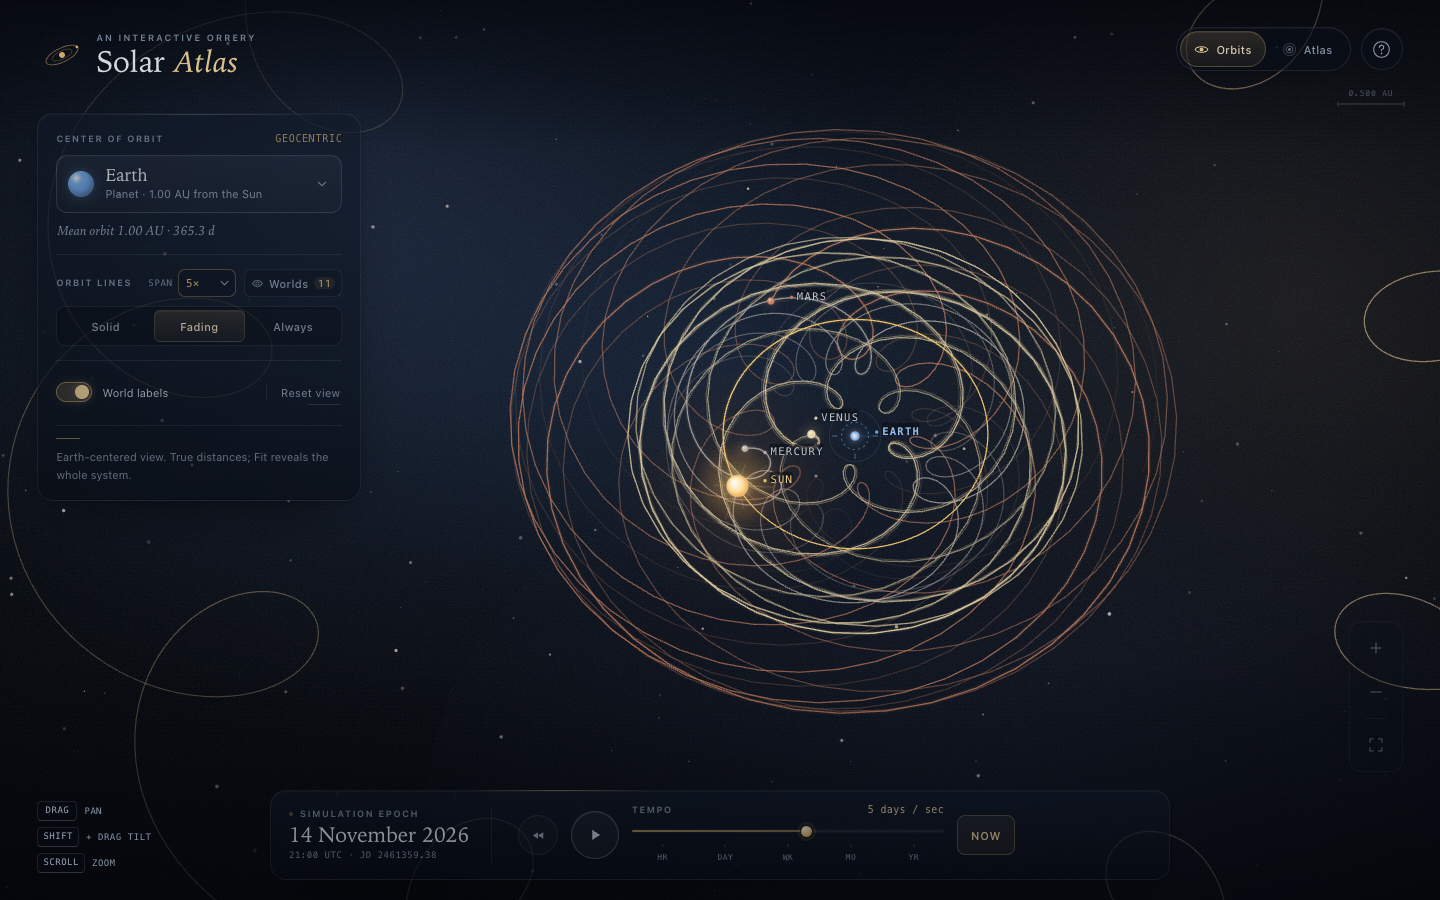
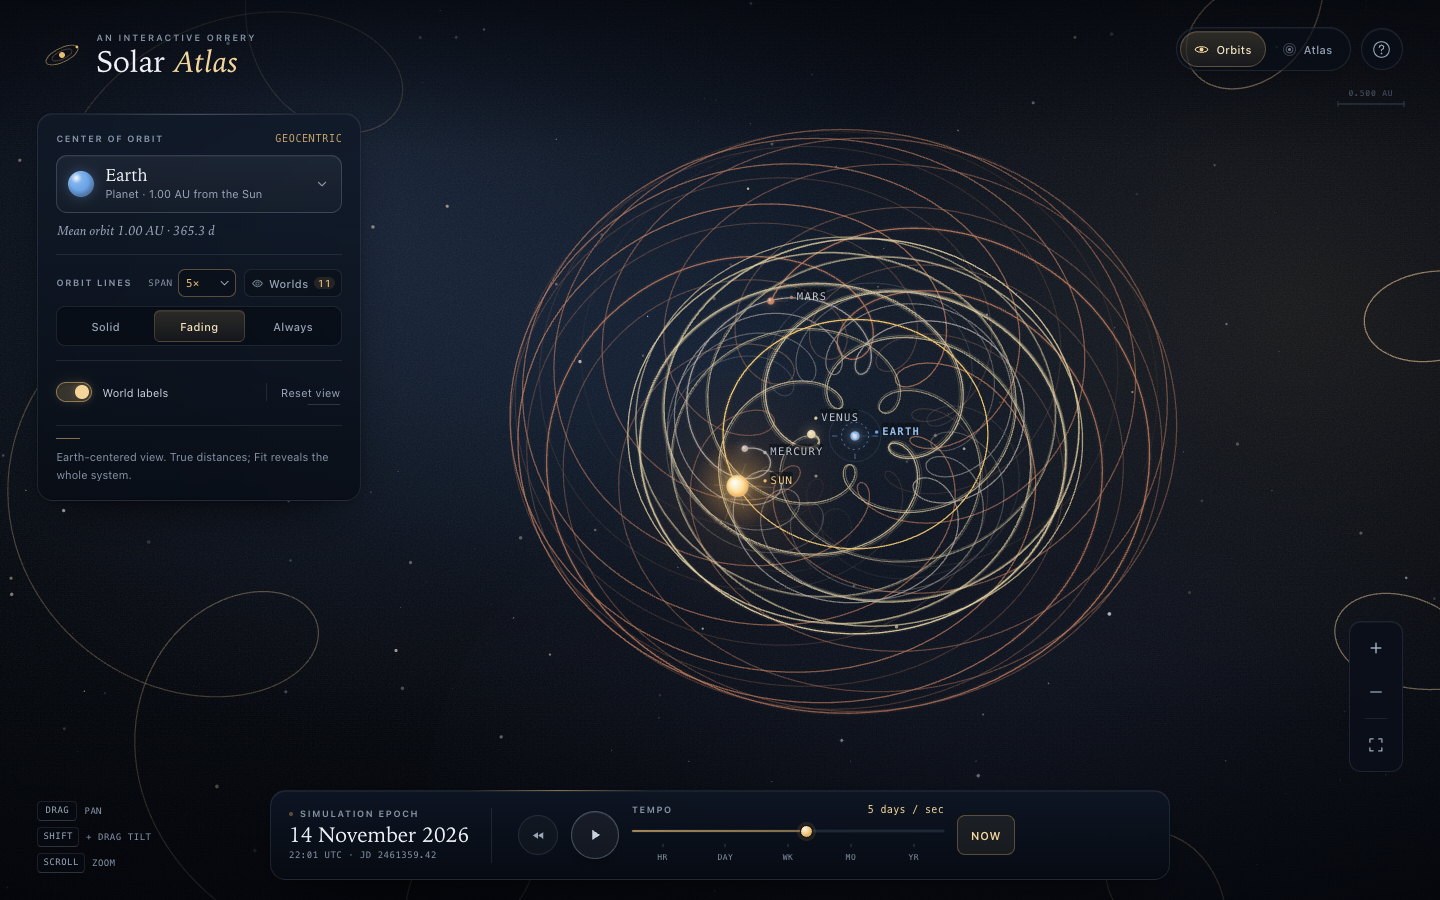
Smooth long-history orbit rendering

diff --git a/dist/solar-atlas.html b/dist/solar-atlas.html
@@ -7391,6 +7391,39 @@ function createRenderer(canvas) {
     return points;
   }
 
+  /**
+   * Add a smooth Catmull-Rom path through projected trace points.
+   *
+   * Line segments between ephemeris samples are geometrically correct but read
+   * as a visible polygon when a long history packs several loops into a short
+   * arc. This curve still passes through every sample; only the rendered
+   * interpolation between samples is smoothed.
+   */
+  function addTracePath(ctx, points, start = 0, end = points.length - 1, close = false) {
+    ctx.beginPath();
+    if (!Array.isArray(points) || end <= start) return;
+    const first = points[start];
+    ctx.moveTo(first.x, first.y);
+    if (end - start === 1) {
+      const last = points[end];
+      ctx.lineTo(last.x, last.y);
+      return;
+    }
+
+    for (let i = start; i < end; i += 1) {
+      const p0 = points[i > start ? i - 1 : start];
+      const p1 = points[i];
+      const p2 = points[i + 1];
+      const p3 = points[i + 2 <= end ? i + 2 : end];
+      const c1x = p1.x + (p2.x - p0.x) / 6;
+      const c1y = p1.y + (p2.y - p0.y) / 6;
+      const c2x = p2.x - (p3.x - p1.x) / 6;
+      const c2y = p2.y - (p3.y - p1.y) / 6;
+      ctx.bezierCurveTo(c1x, c1y, c2x, c2y, p2.x, p2.y);
+    }
+    if (close) ctx.closePath();
+  }
+
   function drawTrace(ctx, body, points, trace, style, hovered, isLoop = false) {
     let minX = Infinity;
     let minY = Infinity;
@@ -7422,9 +7455,7 @@ function createRenderer(canvas) {
     if (style === 'solid') {
       ctx.globalAlpha = hovered ? 0.7 : 0.4;
       ctx.lineWidth = hovered ? 1.7 : 1.1;
-      ctx.beginPath();
-      ctx.moveTo(points[0].x, points[0].y);
-      for (let i = 1; i < n; i += 1) ctx.lineTo(points[i].x, points[i].y);
+      addTracePath(ctx, points);
       ctx.stroke();
 
       if (hovered) {
@@ -7436,10 +7467,7 @@ function createRenderer(canvas) {
       // Unbroken, high-contrast paths with a soft halo. Unlike Solid, these
       // are deliberately bright enough to read against the star field even
       // when several orbits cross; unlike Fading, every segment stays visible.
-      ctx.beginPath();
-      ctx.moveTo(points[0].x, points[0].y);
-      for (let i = 1; i < n; i += 1) ctx.lineTo(points[i].x, points[i].y);
-      if (trace?.fullOrbit) ctx.closePath();
+      addTracePath(ctx, points, 0, n - 1, Boolean(trace?.fullOrbit));
 
       ctx.strokeStyle = body.glow || color;
       ctx.globalAlpha = hovered ? 0.26 : 0.14;
@@ -7463,9 +7491,7 @@ function createRenderer(canvas) {
       // the oldest end and would otherwise make older positions disappear.
       ctx.globalAlpha = isLoop ? 0.055 : 0.045;
       ctx.lineWidth = 0.85;
-      ctx.beginPath();
-      ctx.moveTo(points[0].x, points[0].y);
-      for (let i = 1; i < n; i += 1) ctx.lineTo(points[i].x, points[i].y);
+      addTracePath(ctx, points);
       ctx.stroke();
 
       const buckets = Math.min(34, Math.max(14, Math.floor(n / 9)));
@@ -7474,9 +7500,7 @@ function createRenderer(canvas) {
         const end = Math.min(n - 1, Math.max(start + 1, Math.floor(((b + 1) * (n - 1)) / buckets)));
         if (end <= start) continue;
 
-        ctx.beginPath();
-        ctx.moveTo(points[start].x, points[start].y);
-        for (let i = start + 1; i <= end; i += 1) ctx.lineTo(points[i].x, points[i].y);
+        addTracePath(ctx, points, start, end);
 
         const t = end / Math.max(1, n - 1);
         const supplied = trace && Array.isArray(trace.alphas)
@@ -7495,9 +7519,7 @@ function createRenderer(canvas) {
 
       // A faint bloom on the last stretch of the comet tail.
       const bloomStart = Math.max(0, Math.floor(n * 0.9));
-      ctx.beginPath();
-      ctx.moveTo(points[bloomStart].x, points[bloomStart].y);
-      for (let i = bloomStart + 1; i < n; i += 1) ctx.lineTo(points[i].x, points[i].y);
+      addTracePath(ctx, points, bloomStart, n - 1);
       ctx.globalAlpha = hovered ? 0.12 : 0.065;
       ctx.lineWidth = hovered ? 7 : 4.5;
       ctx.stroke();
@@ -8610,7 +8632,7 @@ const ATLAS_YAW = 0;
 const ATLAS_ELEVATION = 90 * DEG;
 const TRACE_SAMPLES = 520;
 const COMPLETE_TRACE_SAMPLES = 560;
-const MAX_TRACE_SAMPLES = 900;
+const MAX_TRACE_SAMPLES = 2400;
 const TRAIL_SPAN_OPTIONS = [0.5, 1, 2, 5, 10];
 const TRACE_REBUILD_MS = 150;
 const MAX_SCALE = 180000;
@@ -9139,7 +9161,7 @@ function rebuildTraces(now = performance.now(), force = false) {
       ? COMPLETE_TRACE_SAMPLES
       : Math.min(
         MAX_TRACE_SAMPLES,
-        Math.round(TRACE_SAMPLES * Math.sqrt(Math.max(1, state.trailSpan))),
+        Math.max(TRACE_SAMPLES, Math.round(220 * Math.max(1, state.trailSpan))),
       );
     traces = build({
       jd: state.jd,
@@ -9170,7 +9192,8 @@ function maybeRebuildTraces(now) {
     return;
   }
   if (!state.playing) return;
-  if (now - tracesBuiltAt < TRACE_REBUILD_MS) return;
+  const rebuildInterval = state.trailSpan >= 5 ? 250 : TRACE_REBUILD_MS;
+  if (now - tracesBuiltAt < rebuildInterval) return;
   if (Math.abs(state.jd - tracesJd) < 1e-7) return;
   rebuildTraces(now, true);
 }

diff --git a/src/js/renderer.js b/src/js/renderer.js
@@ -767,6 +767,39 @@ export function createRenderer(canvas) {
     return points;
   }
 
+  /**
+   * Add a smooth Catmull-Rom path through projected trace points.
+   *
+   * Line segments between ephemeris samples are geometrically correct but read
+   * as a visible polygon when a long history packs several loops into a short
+   * arc. This curve still passes through every sample; only the rendered
+   * interpolation between samples is smoothed.
+   */
+  function addTracePath(ctx, points, start = 0, end = points.length - 1, close = false) {
+    ctx.beginPath();
+    if (!Array.isArray(points) || end <= start) return;
+    const first = points[start];
+    ctx.moveTo(first.x, first.y);
+    if (end - start === 1) {
+      const last = points[end];
+      ctx.lineTo(last.x, last.y);
+      return;
+    }
+
+    for (let i = start; i < end; i += 1) {
+      const p0 = points[i > start ? i - 1 : start];
+      const p1 = points[i];
+      const p2 = points[i + 1];
+      const p3 = points[i + 2 <= end ? i + 2 : end];
+      const c1x = p1.x + (p2.x - p0.x) / 6;
+      const c1y = p1.y + (p2.y - p0.y) / 6;
+      const c2x = p2.x - (p3.x - p1.x) / 6;
+      const c2y = p2.y - (p3.y - p1.y) / 6;
+      ctx.bezierCurveTo(c1x, c1y, c2x, c2y, p2.x, p2.y);
+    }
+    if (close) ctx.closePath();
+  }
+
   function drawTrace(ctx, body, points, trace, style, hovered, isLoop = false) {
     let minX = Infinity;
     let minY = Infinity;
@@ -798,9 +831,7 @@ export function createRenderer(canvas) {
     if (style === 'solid') {
       ctx.globalAlpha = hovered ? 0.7 : 0.4;
       ctx.lineWidth = hovered ? 1.7 : 1.1;
-      ctx.beginPath();
-      ctx.moveTo(points[0].x, points[0].y);
-      for (let i = 1; i < n; i += 1) ctx.lineTo(points[i].x, points[i].y);
+      addTracePath(ctx, points);
       ctx.stroke();
 
       if (hovered) {
@@ -812,10 +843,7 @@ export function createRenderer(canvas) {
       // Unbroken, high-contrast paths with a soft halo. Unlike Solid, these
       // are deliberately bright enough to read against the star field even
       // when several orbits cross; unlike Fading, every segment stays visible.
-      ctx.beginPath();
-      ctx.moveTo(points[0].x, points[0].y);
-      for (let i = 1; i < n; i += 1) ctx.lineTo(points[i].x, points[i].y);
-      if (trace?.fullOrbit) ctx.closePath();
+      addTracePath(ctx, points, 0, n - 1, Boolean(trace?.fullOrbit));
 
       ctx.strokeStyle = body.glow || color;
       ctx.globalAlpha = hovered ? 0.26 : 0.14;
@@ -839,9 +867,7 @@ export function createRenderer(canvas) {
       // the oldest end and would otherwise make older positions disappear.
       ctx.globalAlpha = isLoop ? 0.055 : 0.045;
       ctx.lineWidth = 0.85;
-      ctx.beginPath();
-      ctx.moveTo(points[0].x, points[0].y);
-      for (let i = 1; i < n; i += 1) ctx.lineTo(points[i].x, points[i].y);
+      addTracePath(ctx, points);
       ctx.stroke();
 
       const buckets = Math.min(34, Math.max(14, Math.floor(n / 9)));
@@ -850,9 +876,7 @@ export function createRenderer(canvas) {
         const end = Math.min(n - 1, Math.max(start + 1, Math.floor(((b + 1) * (n - 1)) / buckets)));
         if (end <= start) continue;
 
-        ctx.beginPath();
-        ctx.moveTo(points[start].x, points[start].y);
-        for (let i = start + 1; i <= end; i += 1) ctx.lineTo(points[i].x, points[i].y);
+        addTracePath(ctx, points, start, end);
 
         const t = end / Math.max(1, n - 1);
         const supplied = trace && Array.isArray(trace.alphas)
@@ -871,9 +895,7 @@ export function createRenderer(canvas) {
 
       // A faint bloom on the last stretch of the comet tail.
       const bloomStart = Math.max(0, Math.floor(n * 0.9));
-      ctx.beginPath();
-      ctx.moveTo(points[bloomStart].x, points[bloomStart].y);
-      for (let i = bloomStart + 1; i < n; i += 1) ctx.lineTo(points[i].x, points[i].y);
+      addTracePath(ctx, points, bloomStart, n - 1);
       ctx.globalAlpha = hovered ? 0.12 : 0.065;
       ctx.lineWidth = hovered ? 7 : 4.5;
       ctx.stroke();

diff --git a/src/js/main.js b/src/js/main.js
@@ -39,7 +39,7 @@ const ATLAS_YAW = 0;
 const ATLAS_ELEVATION = 90 * DEG;
 const TRACE_SAMPLES = 520;
 const COMPLETE_TRACE_SAMPLES = 560;
-const MAX_TRACE_SAMPLES = 900;
+const MAX_TRACE_SAMPLES = 2400;
 const TRAIL_SPAN_OPTIONS = [0.5, 1, 2, 5, 10];
 const TRACE_REBUILD_MS = 150;
 const MAX_SCALE = 180000;
@@ -568,7 +568,7 @@ function rebuildTraces(now = performance.now(), force = false) {
       ? COMPLETE_TRACE_SAMPLES
       : Math.min(
         MAX_TRACE_SAMPLES,
-        Math.round(TRACE_SAMPLES * Math.sqrt(Math.max(1, state.trailSpan))),
+        Math.max(TRACE_SAMPLES, Math.round(220 * Math.max(1, state.trailSpan))),
       );
     traces = build({
       jd: state.jd,
@@ -599,7 +599,8 @@ function maybeRebuildTraces(now) {
     return;
   }
   if (!state.playing) return;
-  if (now - tracesBuiltAt < TRACE_REBUILD_MS) return;
+  const rebuildInterval = state.trailSpan >= 5 ? 250 : TRACE_REBUILD_MS;
+  if (now - tracesBuiltAt < rebuildInterval) return;
   if (Math.abs(state.jd - tracesJd) < 1e-7) return;
   rebuildTraces(now, true);
 }

diff --git a/README.md b/README.md
@@ -93,6 +93,7 @@ The URL records `center`, `mode`, `trail`, `span`, `labels`, and hidden worlds (
   are the real eccentric, inclined ellipses. In a planet-centric view, positions are differenced
   against the moving center at the same instant, so the trails are the true geocentric /
   areocentric / etc. rosettes and retrograde loops over several synodic periods.
+- **Long history stays curved.** The Span selector scales the ephemeris sampling with the requested history, and trace paths are drawn with a smooth Catmull–Rom interpolation through the samples. This keeps 5× and 10× geocentric rosettes from turning into visible polygons; *Always* ignores Span and renders complete parent orbits.
 - **Atlas mode** is the one deliberate distortion: only the radius is compressed
   (`r' = ln(1 + r / 0.18)`), preserving every angle and orbital shape. A logarithmic scale
   brings Mercury and Neptune into the same frame.
@@ -139,9 +140,10 @@ Atlas compression, camera projection, zoom anchoring, symmetric fitting, and int
 - Full keyboard support, visible focus rings, ARIA labels on all controls, a live region for
   state changes, a focus-trapped help dialog, reduced-motion support, and a skip link.
 - Canvas text is drawn with a dark keyline for contrast; labels use collision-aware placement.
-- Simulation runs at ~60 fps on a 2020-era laptop with 10 orbit traces, fading gradients,
-  labels, and the star field; trace geometry is throttled and bridged to the live planet
-  position between rebuilds.
+- Simulation runs at ~60 fps on a 2020-era laptop at the default history span, with 10 orbit
+  traces, fading gradients, labels, and the star field; trace geometry is throttled and bridged
+  to the live planet position between rebuilds. Long-history modes scale their sampling with
+  the selected Span.
 - Mobile keeps the center picker and orbit-style controls above the stage; the secondary labels
   and reset row is intentionally omitted there to give the map room, while desktop/tablet float
   the full instrument panel.
